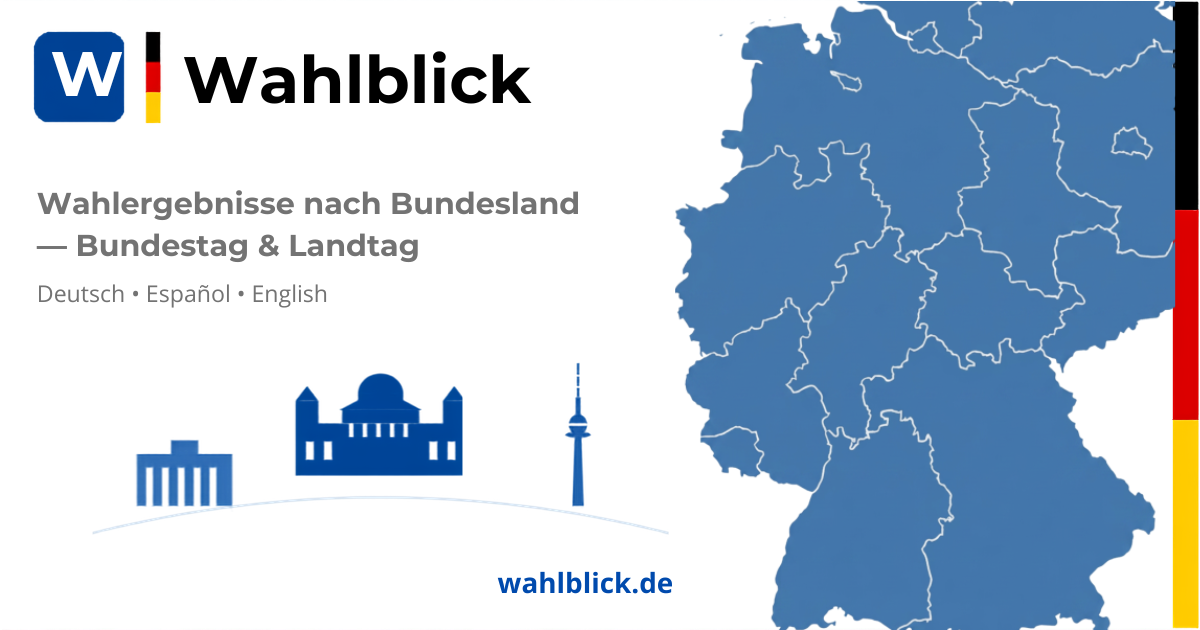
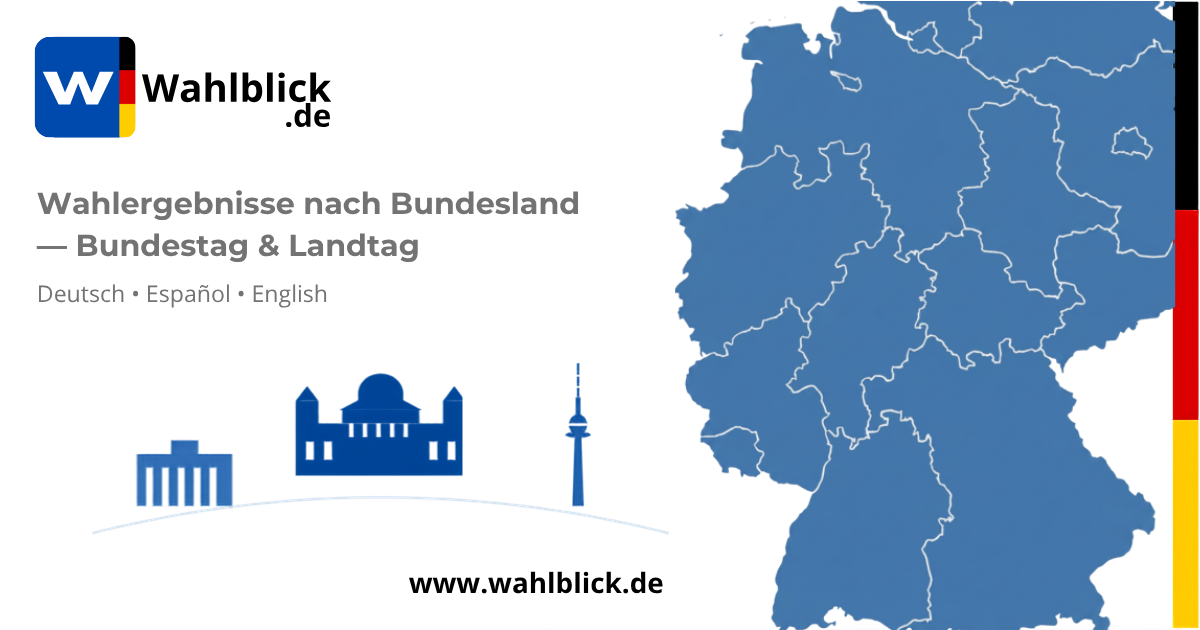
Update OG share image to new branding + bump cache-buster to v=3
- New og-image.png (1200x630) with the updated logo lockup
- Bump og:image + twitter:image ?v=2 -> ?v=3 across all 48 pages so
  social platforms re-fetch the fresh image instead of the cached one

Changed region(s): [[0.0308, 0.0302, 0.4625, 0.2413], [0.3392, 0.9048, 0.555, 0.9651]]

diff --git a/es/landtagswahlen-2026.html b/es/landtagswahlen-2026.html
@@ -18,10 +18,10 @@
 <meta property="og:site_name" content="Wahlblick">
 <meta property="og:title" content="Elecciones estatales de Alemania 2026: ¿qué estados votan y cuándo?">
 <meta property="og:description" content="Las cinco elecciones estatales de 2026: fechas, resultados e historial — neutral y con fuentes en wahlblick.de.">
-<meta property="og:image" content="https://wahlblick.de/og-image.png?v=2">
+<meta property="og:image" content="https://wahlblick.de/og-image.png?v=3">
 <meta property="og:url" content="https://wahlblick.de/es/landtagswahlen-2026.html">
 <meta name="twitter:card" content="summary_large_image">
-<meta name="twitter:image" content="https://wahlblick.de/og-image.png?v=2">
+<meta name="twitter:image" content="https://wahlblick.de/og-image.png?v=3">
 <meta name="twitter:description" content="Las cinco elecciones estatales de Alemania en 2026: fechas, resultados e historial.">
 <style>
   :root { --bg: #ffffff; --surface: #f7f8f9; --border: #e3e6ea; --text: #1a1a1a; --text-muted: #6b7280; --accent: #004494; --accent-ink: #ffffff; --radius: 4px; --up: #16a34a; --up-bg: #eafaf0; }

diff --git a/landtagswahlen-2026.html b/landtagswahlen-2026.html
@@ -18,10 +18,10 @@
 <meta property="og:site_name" content="Wahlblick">
 <meta property="og:title" content="Landtagswahlen 2026: Welche Bundesländer wählen wann?">
 <meta property="og:description" content="Alle fünf Landtagswahlen 2026: Termine, Ergebnisse und Verlauf — neutral und quellenbasiert auf wahlblick.de.">
-<meta property="og:image" content="https://wahlblick.de/og-image.png?v=2">
+<meta property="og:image" content="https://wahlblick.de/og-image.png?v=3">
 <meta property="og:url" content="https://wahlblick.de/landtagswahlen-2026.html">
 <meta name="twitter:card" content="summary_large_image">
-<meta name="twitter:image" content="https://wahlblick.de/og-image.png?v=2">
+<meta name="twitter:image" content="https://wahlblick.de/og-image.png?v=3">
 <meta name="twitter:description" content="Alle fünf Landtagswahlen 2026: Termine, Ergebnisse und Verlauf — neutral und quellenbasiert.">
 <style>
   :root { --bg: #ffffff; --surface: #f7f8f9; --border: #e3e6ea; --text: #1a1a1a; --text-muted: #6b7280; --accent: #004494; --accent-ink: #ffffff; --radius: 4px; --up: #16a34a; --up-bg: #eafaf0; }

diff --git a/es/faq.html b/es/faq.html
@@ -18,10 +18,10 @@
 <meta property="og:site_name" content="Wahlblick">
 <meta property="og:title" content="Preguntas frecuentes sobre el sistema político de Alemania">
 <meta property="og:description" content="Elección y destitución del canciller, inmunidad e indemnidad, Hammelsprung, referéndums — respuestas neutrales en wahlblick.de.">
-<meta property="og:image" content="https://wahlblick.de/og-image.png?v=2">
+<meta property="og:image" content="https://wahlblick.de/og-image.png?v=3">
 <meta property="og:url" content="https://wahlblick.de/es/faq.html">
 <meta name="twitter:card" content="summary_large_image">
-<meta name="twitter:image" content="https://wahlblick.de/og-image.png?v=2">
+<meta name="twitter:image" content="https://wahlblick.de/og-image.png?v=3">
 <meta name="twitter:description" content="Respuestas neutrales a preguntas frecuentes sobre el Bundestag y el sistema político de Alemania.">
 <style>
   :root { --bg: #ffffff; --surface: #f7f8f9; --border: #e3e6ea; --text: #1a1a1a; --text-muted: #6b7280; --accent: #004494; --accent-ink: #ffffff; --radius: 4px; }

diff --git a/en/landtagswahlen-2026.html b/en/landtagswahlen-2026.html
@@ -18,10 +18,10 @@
 <meta property="og:site_name" content="Wahlblick">
 <meta property="og:title" content="Germany's 2026 state elections: which states vote and when?">
 <meta property="og:description" content="All five 2026 state elections: dates, results and history — neutral and sourced on wahlblick.de.">
-<meta property="og:image" content="https://wahlblick.de/og-image.png?v=2">
+<meta property="og:image" content="https://wahlblick.de/og-image.png?v=3">
 <meta property="og:url" content="https://wahlblick.de/en/landtagswahlen-2026.html">
 <meta name="twitter:card" content="summary_large_image">
-<meta name="twitter:image" content="https://wahlblick.de/og-image.png?v=2">
+<meta name="twitter:image" content="https://wahlblick.de/og-image.png?v=3">
 <meta name="twitter:description" content="Germany's five 2026 state elections: dates, results and history.">
 <style>
   :root { --bg: #ffffff; --surface: #f7f8f9; --border: #e3e6ea; --text: #1a1a1a; --text-muted: #6b7280; --accent: #004494; --accent-ink: #ffffff; --radius: 4px; --up: #16a34a; --up-bg: #eafaf0; }

diff --git a/en/faq.html b/en/faq.html
@@ -18,10 +18,10 @@
 <meta property="og:site_name" content="Wahlblick">
 <meta property="og:title" content="Frequently asked questions about Germany's political system">
 <meta property="og:description" content="Chancellor election and removal, immunity and indemnity, the Hammelsprung, referendums — neutral answers on wahlblick.de.">
-<meta property="og:image" content="https://wahlblick.de/og-image.png?v=2">
+<meta property="og:image" content="https://wahlblick.de/og-image.png?v=3">
 <meta property="og:url" content="https://wahlblick.de/en/faq.html">
 <meta name="twitter:card" content="summary_large_image">
-<meta name="twitter:image" content="https://wahlblick.de/og-image.png?v=2">
+<meta name="twitter:image" content="https://wahlblick.de/og-image.png?v=3">
 <meta name="twitter:description" content="Neutral answers to common questions about the Bundestag and Germany's political system.">
 <style>
   :root { --bg: #ffffff; --surface: #f7f8f9; --border: #e3e6ea; --text: #1a1a1a; --text-muted: #6b7280; --accent: #004494; --accent-ink: #ffffff; --radius: 4px; }

diff --git a/faq.html b/faq.html
@@ -18,10 +18,10 @@
 <meta property="og:site_name" content="Wahlblick">
 <meta property="og:title" content="Häufige Fragen zum politischen System Deutschlands">
 <meta property="og:description" content="Kanzlerwahl und Abwahl, Immunität und Indemnität, Hammelsprung, Volksabstimmungen — neutrale Antworten auf wahlblick.de.">
-<meta property="og:image" content="https://wahlblick.de/og-image.png?v=2">
+<meta property="og:image" content="https://wahlblick.de/og-image.png?v=3">
 <meta property="og:url" content="https://wahlblick.de/faq.html">
 <meta name="twitter:card" content="summary_large_image">
-<meta name="twitter:image" content="https://wahlblick.de/og-image.png?v=2">
+<meta name="twitter:image" content="https://wahlblick.de/og-image.png?v=3">
 <meta name="twitter:description" content="Neutrale Antworten auf häufige Fragen zum Bundestag und zum politischen System Deutschlands.">
 <style>
   :root { --bg: #ffffff; --surface: #f7f8f9; --border: #e3e6ea; --text: #1a1a1a; --text-muted: #6b7280; --accent: #004494; --accent-ink: #ffffff; --radius: 4px; }

diff --git a/es/index.html b/es/index.html
@@ -18,13 +18,13 @@
 <meta property="og:site_name" content="Wahlblick">
 <meta property="og:title" content="Wahlblick — Mapa electoral de Alemania">
 <meta property="og:description" content="Mapa interactivo e independiente de los resultados electorales de Alemania: Bundestag y los 16 Landtage, con historial. Neutral y en tres idiomas.">
-<meta property="og:image" content="https://wahlblick.de/og-image.png?v=2">
+<meta property="og:image" content="https://wahlblick.de/og-image.png?v=3">
 <meta property="og:url" content="https://wahlblick.de/es/">
 <meta property="og:locale" content="es_ES">
 <meta name="twitter:card" content="summary_large_image">
 <meta name="twitter:title" content="Wahlblick — Mapa electoral de Alemania">
 <meta name="twitter:description" content="Mapa interactivo de los resultados electorales de Alemania: Bundestag y los 16 Landtage.">
-<meta name="twitter:image" content="https://wahlblick.de/og-image.png?v=2">
+<meta name="twitter:image" content="https://wahlblick.de/og-image.png?v=3">
 <style>
   :root {
     --bg: #ffffff;

diff --git a/en/index.html b/en/index.html
@@ -18,13 +18,13 @@
 <meta property="og:site_name" content="Wahlblick">
 <meta property="og:title" content="Wahlblick — Election map of Germany">
 <meta property="og:description" content="Interactive, independent map of Germany's election results: the Bundestag and all 16 Landtage, with history. Neutral and in three languages.">
-<meta property="og:image" content="https://wahlblick.de/og-image.png?v=2">
+<meta property="og:image" content="https://wahlblick.de/og-image.png?v=3">
 <meta property="og:url" content="https://wahlblick.de/en/">
 <meta property="og:locale" content="en_US">
 <meta name="twitter:card" content="summary_large_image">
 <meta name="twitter:title" content="Wahlblick — Election map of Germany">
 <meta name="twitter:description" content="Interactive map of Germany's election results: the Bundestag and all 16 Landtage.">
-<meta name="twitter:image" content="https://wahlblick.de/og-image.png?v=2">
+<meta name="twitter:image" content="https://wahlblick.de/og-image.png?v=3">
 <style>
   :root {
     --bg: #ffffff;

diff --git a/sitzverteilung.html b/sitzverteilung.html
@@ -18,10 +18,10 @@
 <meta property="og:site_name" content="Wahlblick">
 <meta property="og:title" content="Wie die Sitze im Bundestag verteilt werden — Wahlblick">
 <meta property="og:description" content="Zweitstimme, Fünf-Prozent-Hürde, Sainte-Laguë-Verfahren und die Reform von 2023 einfach erklärt — anhand der echten Ergebnisse der Bundestagswahl 2025.">
-<meta property="og:image" content="https://wahlblick.de/og-image.png?v=2">
+<meta property="og:image" content="https://wahlblick.de/og-image.png?v=3">
 <meta property="og:url" content="https://wahlblick.de/sitzverteilung.html">
 <meta name="twitter:card" content="summary_large_image">
-<meta name="twitter:image" content="https://wahlblick.de/og-image.png?v=2">
+<meta name="twitter:image" content="https://wahlblick.de/og-image.png?v=3">
 <meta name="twitter:description" content="Zweitstimme, Fünf-Prozent-Hürde, Sainte-Laguë-Verfahren und die Reform von 2023 einfach erklärt — anhand der echten Ergebnisse der Bundestagswahl 2025.">
 <style>
   :root {

diff --git a/index.html b/index.html
@@ -18,13 +18,13 @@
 <meta property="og:site_name" content="Wahlblick">
 <meta property="og:title" content="Wahlblick — Wahlkarte Deutschland">
 <meta property="og:description" content="Interaktive Karte: Wahlergebnisse nach Bundesland — Bundestagswahl & Landtagswahl. Deutsch, Español, English.">
-<meta property="og:image" content="https://wahlblick.de/og-image.png?v=2">
+<meta property="og:image" content="https://wahlblick.de/og-image.png?v=3">
 <meta property="og:url" content="https://wahlblick.de/">
 <meta property="og:locale" content="de_DE">
 <meta name="twitter:card" content="summary_large_image">
 <meta name="twitter:title" content="Wahlblick — Wahlkarte Deutschland">
 <meta name="twitter:description" content="Interaktive Karte: Wahlergebnisse nach Bundesland — Bundestagswahl & Landtagswahl.">
-<meta name="twitter:image" content="https://wahlblick.de/og-image.png?v=2">
+<meta name="twitter:image" content="https://wahlblick.de/og-image.png?v=3">
 <style>
   :root {
     --bg: #ffffff;

diff --git a/parties.html b/parties.html
@@ -18,10 +18,10 @@
 <meta property="og:site_name" content="Wahlblick">
 <meta property="og:title" content="Parteien in Deutschland — Wahlblick">
 <meta property="og:description" content="Die Parteien im Bundestag und in den Landtagen: Gründungsjahr, Geschichte und Positionen laut eigenem Grundsatzprogramm — neutral und ohne Wertung.">
-<meta property="og:image" content="https://wahlblick.de/og-image.png?v=2">
+<meta property="og:image" content="https://wahlblick.de/og-image.png?v=3">
 <meta property="og:url" content="https://wahlblick.de/parties.html">
 <meta name="twitter:card" content="summary_large_image">
-<meta name="twitter:image" content="https://wahlblick.de/og-image.png?v=2">
+<meta name="twitter:image" content="https://wahlblick.de/og-image.png?v=3">
 <meta name="twitter:description" content="Die Parteien im Bundestag und in den Landtagen: Gründungsjahr, Geschichte und Positionen laut eigenem Grundsatzprogramm — neutral und ohne Wertung.">
 <style>
   :root {

diff --git a/es/mecklenburg-vorpommern.html b/es/mecklenburg-vorpommern.html
@@ -18,10 +18,10 @@
 <meta property="og:site_name" content="Wahlblick">
 <meta property="og:title" content="Elecciones estatales de Mecklemburgo-Pomerania Occidental 2026 — fecha y resultados">
 <meta property="og:description" content="Fecha, historial y resultados de la elección estatal de Mecklemburgo-Pomerania Occidental — neutral y con fuentes en wahlblick.de.">
-<meta property="og:image" content="https://wahlblick.de/og-image.png?v=2">
+<meta property="og:image" content="https://wahlblick.de/og-image.png?v=3">
 <meta property="og:url" content="https://wahlblick.de/es/mecklenburg-vorpommern.html">
 <meta name="twitter:card" content="summary_large_image">
-<meta name="twitter:image" content="https://wahlblick.de/og-image.png?v=2">
+<meta name="twitter:image" content="https://wahlblick.de/og-image.png?v=3">
 <meta name="twitter:description" content="Fecha, historial y resultados de la elección estatal de Mecklemburgo-Pomerania Occidental.">
 <style>
   :root {
